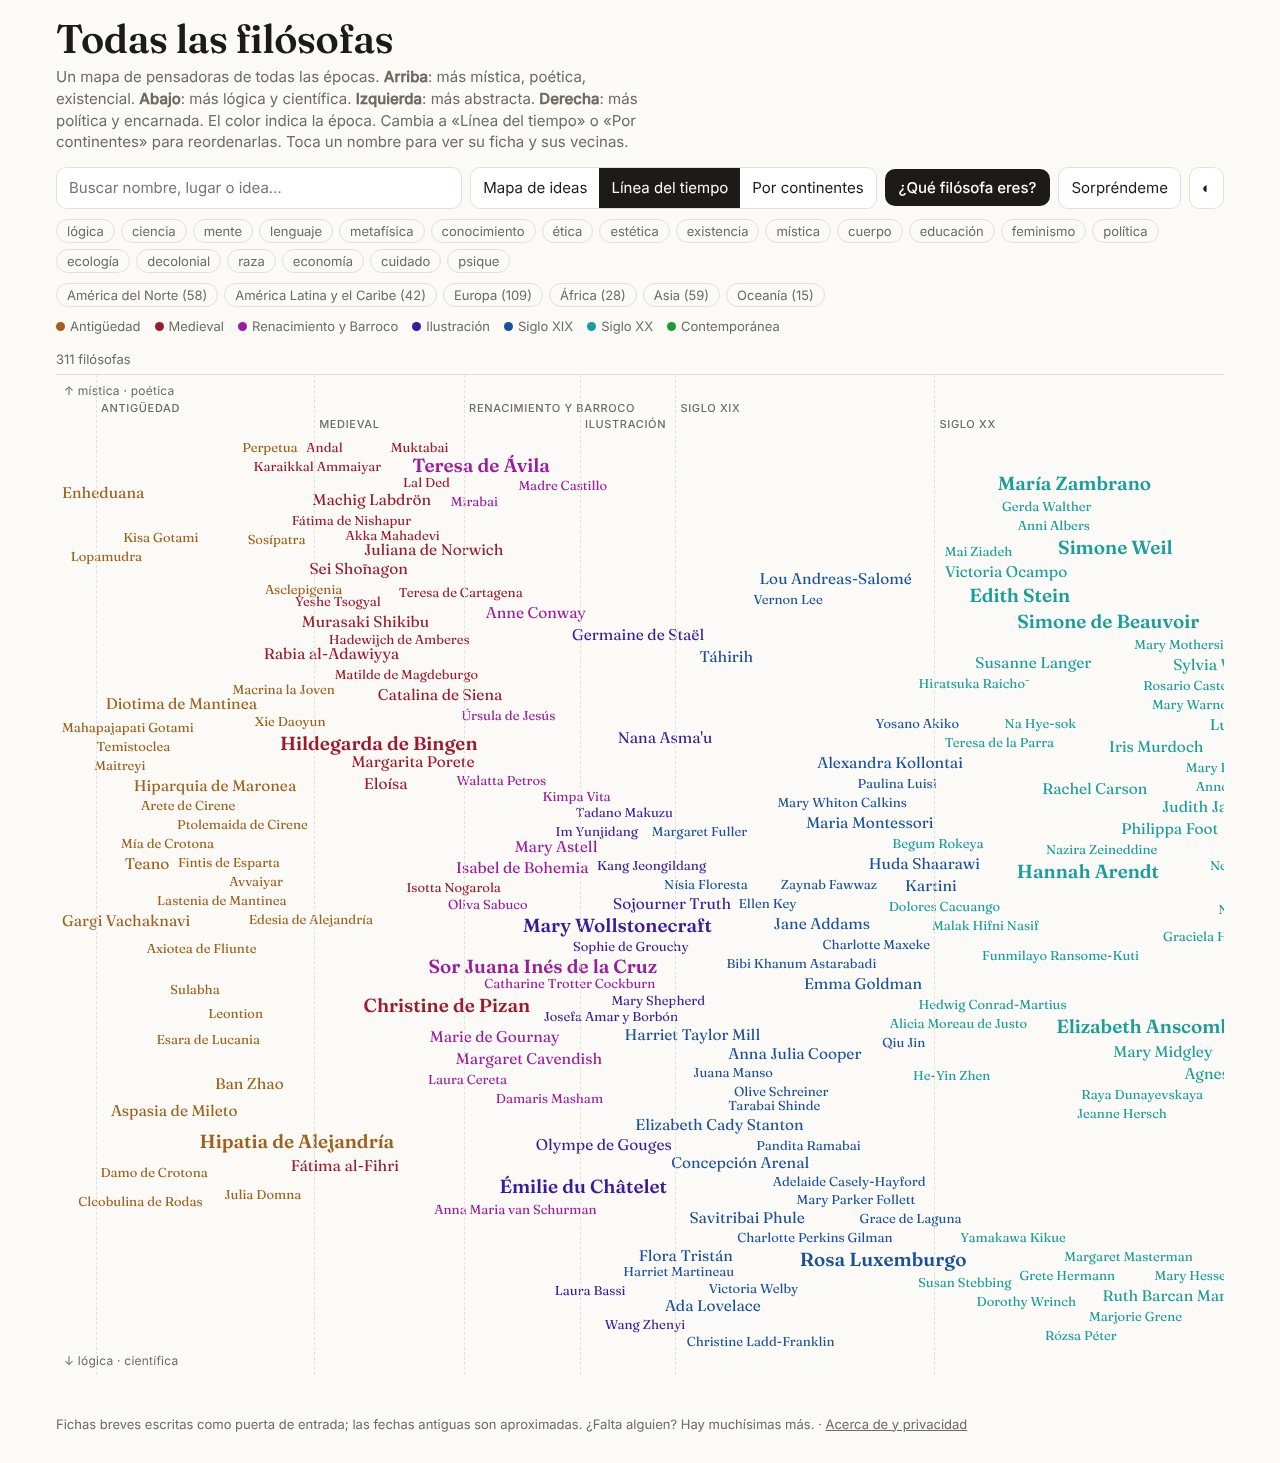
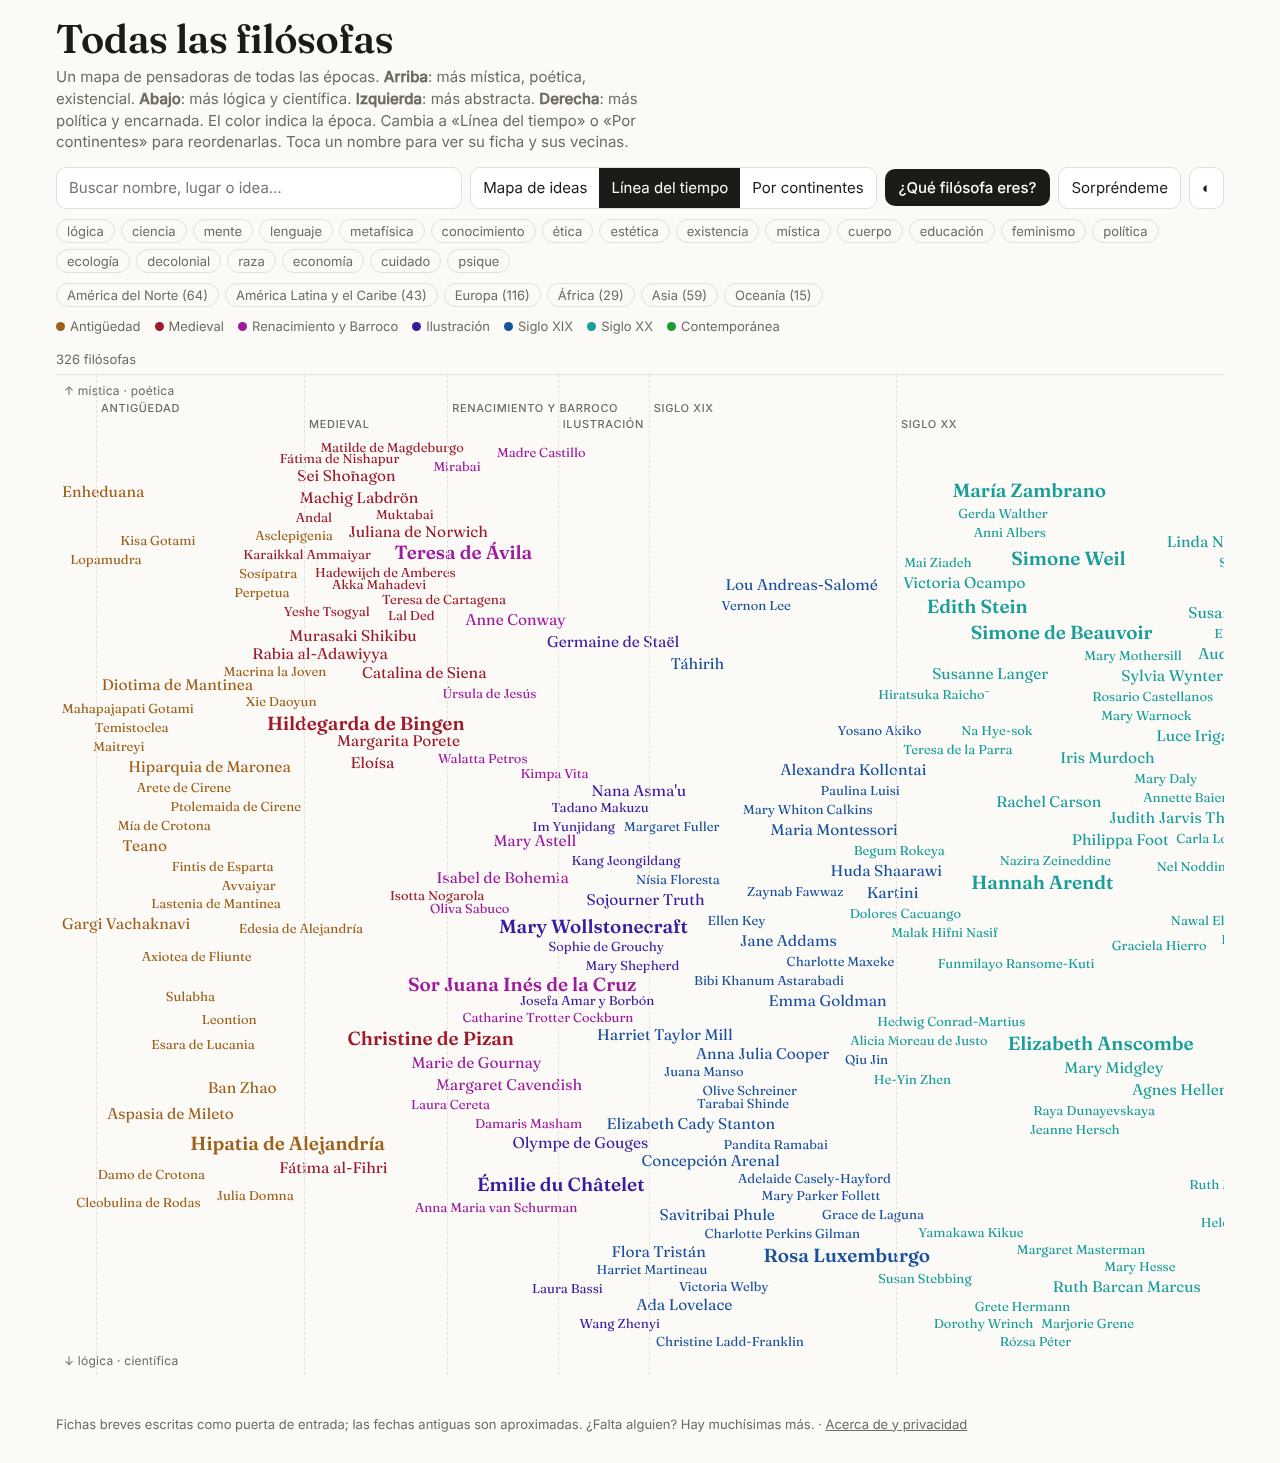
Filósofas: estética y teoría del arte feministas (326)
Añade a Marina Núñez, Bonnie Mann, Janet Wolff, Koyo Kouoh, Peggy Zeglin
Brand, Amelia Jones, Emily Brady, Katya Mandoki, Linda Nochlin, Lucy
Lippard, Rosalind Krauss, Laura Mulvey, Mieke Bal, Griselda Pollock y
Estrella de Diego. Para quienes no tienen fecha de nacimiento conocida,
la ficha muestra el año de su obra clave en lugar de inventarla.

Claude-Session: https://claude.ai/code/session_01KKfWKBF6TY6dsgWVrcAB93

diff --git a/filosofas/index.html b/filosofas/index.html
@@ -140,7 +140,7 @@ footer{color:var(--muted);font-size:13px;max-width:1200px;margin:0 auto;padding:
 <footer>Fichas breves escritas como puerta de entrada; las fechas antiguas son aproximadas. ¿Falta alguien? Hay muchísimas más. · <a href="acerca.html" style="color:inherit">Acerca de y privacidad</a></footer>
 
 <script>
-/* [nombre, nacimiento, muerte (null = vive, "?" = desconocida), aproximada, lugar, corriente, temas, idea, peso] */
+/* [nombre, nacimiento, muerte (null = vive, "?" = desconocida), aproximada (1) — o 2: no se sabe el nacimiento y el año es el de su obra clave —, lugar, corriente, temas, idea, peso] */
 const D=[
 ["Enheduana",-2285,-2250,1,"Ur, Mesopotamia","Poesía sacerdotal sumeria","mistica estetica","Suma sacerdotisa de Ur y primera autora conocida con nombre propio: sus himnos a Inanna piensan lo divino, el poder y el yo.",2],
 ["Gargi Vachaknavi",-700,"?",1,"Videha, India","Upanishads","metafisica conocimiento","Interroga a Yajñavalkya sobre aquello en lo que todo el universo está «tejido» en la Brihadaranyaka Upanishad.",2],
@@ -452,7 +452,22 @@ const D=[
 ["Ellen Dissanayake",1935,null,0,"Estados Unidos","Estética evolutiva","estetica cuerpo ciencia","«Homo aestheticus»: el arte como «hacer especial» lo cotidiano, una necesidad humana.",1],
 ["Elaine Scarry",1946,null,0,"Estados Unidos","Estética","estetica etica cuerpo","«Sobre la belleza y ser justos»: la belleza nos entrena para la justicia.",1],
 ["Carolyn Korsmeyer",1950,null,0,"Estados Unidos","Estética","estetica cuerpo","«El sentido del gusto»: la comida y el gusto como asuntos filosóficos.",1],
-["Sianne Ngai",1971,null,0,"Estados Unidos","Teoría estética","estetica economia","«Nuestras categorías estéticas»: lo mono, lo chiflado y lo interesante en el capitalismo tardío.",1]
+["Sianne Ngai",1971,null,0,"Estados Unidos","Teoría estética","estetica economia","«Nuestras categorías estéticas»: lo mono, lo chiflado y lo interesante en el capitalismo tardío.",1],
+["Peggy Zeglin Brand",1995,null,2,"Estados Unidos","Estética feminista","estetica feminismo","Con Carolyn Korsmeyer editó «Feminismo y tradición en estética» y después «La belleza importa»: el canon estético revisado desde las mujeres.",1],
+["Emily Brady",2003,null,2,"Reino Unido / EE. UU.","Estética ambiental","estetica ecologia etica","«Estética del entorno natural»: apreciar la naturaleza con imaginación y respeto, no como un cuadro.",1],
+["Bonnie Mann",2006,null,2,"Estados Unidos","Fenomenología feminista","estetica feminismo ecologia","«La liberación de las mujeres y lo sublime»: lo sublime repensado desde el feminismo y la tierra; después, «Masculinidad soberana».",1],
+["Katya Mandoki",2007,null,2,"México","Estética de lo cotidiano","estetica lenguaje politica","«Prosaica»: la estética de la vida diaria, de la cultura y las identidades sociales.",1],
+["Linda Nochlin",1931,2017,0,"Nueva York","Historia del arte feminista","estetica feminismo","«¿Por qué no ha habido grandes artistas mujeres?»: la pregunta estaba mal planteada; el problema son las instituciones.",2],
+["Lucy Lippard",1937,null,0,"Nueva York","Crítica de arte","estetica politica feminismo","La desmaterialización del objeto artístico y el arte feminista y comprometido.",1],
+["Rosalind Krauss",1941,null,0,"Estados Unidos","Teoría del arte","estetica lenguaje","La escultura en el campo expandido y la originalidad de la vanguardia.",1],
+["Laura Mulvey",1941,null,0,"Oxford / Londres","Teoría fílmica feminista","estetica psique feminismo","«Placer visual y cine narrativo»: la mirada masculina.",2],
+["Janet Wolff",1943,null,0,"Mánchester","Sociología del arte","estetica feminismo politica","«La producción social del arte» y la flâneuse invisible de la modernidad.",1],
+["Mieke Bal",1946,null,0,"Países Bajos","Teoría cultural","estetica lenguaje","Narratología y conceptos viajeros entre el arte y las humanidades.",1],
+["Griselda Pollock",1949,null,0,"Sudáfrica / Leeds","Historia del arte feminista","estetica feminismo psique","«Visión y diferencia»: feminismo, psicoanálisis y las historias del arte.",1],
+["Estrella de Diego",1958,null,0,"Madrid","Teoría del arte","estetica feminismo","Arte, género e identidad: «El andrógino sexuado» y «Travesías por la incertidumbre».",1],
+["Amelia Jones",1961,null,0,"Estados Unidos","Teoría de la performance","estetica cuerpo feminismo","«Body Art: la representación del sujeto»: el cuerpo del artista como lugar del significado.",1],
+["Marina Núñez",1966,null,0,"Palencia","Arte y pensamiento feminista","estetica cuerpo ciencia","Artista que piensa con imágenes: monstruas, cíborgs y cuerpos que desbordan la norma.",1],
+["Koyo Kouoh",1967,2025,0,"Duala, Camerún / Dakar","Comisariado","estetica decolonial","Comisaria que puso el arte africano en el centro: fundó RAW Material Company y dirigió el Zeitz MOCAA.",2]
 ];
 
 /* temas → dirección en el mapa: [x: abstracta(-) / política(+), y: lógica(-) / mística(+)] */
@@ -473,25 +488,27 @@ const eraOf=b=>ERAS.find(e=>b<e.to);
 const CONTS=["América del Norte","América Latina y el Caribe","Europa","África","Asia","Oceanía"];
 const CONT_RX=[
  [1,/Lima|Colombia|Uruguay|Ecuador|Bolivia|Cuba|Caracas|Oaxaca|México|Nueva España|Buenos Aires|Argentina|La Paz|Chile|Guatemala|Brasil|São Paulo|Santos|República Dominicana|Jamaica|Panamá/],
- [3,/Cartago|Etiopía|Congo|Sokoto|Sudáfrica|Sierra Leona|Kenia|Senegal|Uganda|Alejandría|Cirene|Fez|Egipto|Nigeria|Orán/],
+ [3,/Camerún|Cartago|Etiopía|Congo|Sokoto|Sudáfrica|Sierra Leona|Kenia|Senegal|Uganda|Alejandría|Cirene|Fez|Egipto|Nigeria|Orán/],
  [4,/Kioto|Tíbet|Corea|Japón|Irán|Persia|Líbano|Nazaret|Java|Siria|India|Mesopotamia|China|Tokio|Cachemira|Bengala|Basora|Pérgamo|Capadocia|Mileto|Pakistán|Baréin|Calcuta|Bombay|Dehradun|Karnataka|Rajastán|Maharashtra/],
  [5,/Aotearoa|Hawái|Fiyi|Australia|Nueva Zelanda|Sídney/],
  [0,/Estados Unidos|EE\. UU\.|Nueva York|Connecticut|Chicago|Canadá|Minnesota|Texas|Pensilvania|Ottawa|Ohio|Nueva Jersey|Milwaukee|Massachusetts|Kentucky|Filadelfia|Denver|Cleveland|Carolina|Boston|Baltimore|California|Alabama/]];
-const CONT_FIX={"Dorothy Wrinch":2,"Francesca Gargallo":1,"Nelly Richard":1};
+const CONT_FIX={"Dorothy Wrinch":2,"Francesca Gargallo":1,"Nelly Richard":1,"Griselda Pollock":2};
 function contOf(n,pl){ if(n in CONT_FIX)return CONT_FIX[n]; const f=pl.split(" / ")[0];
   for(const [c,rx] of CONT_RX) if(rx.test(f)) return c; return 2; }
 
 function hash(s){let h=2166136261;for(const c of s){h^=c.charCodeAt(0);h=Math.imul(h,16777619)}return (h>>>0)/4294967295}
 const yr=(y,a)=>(a?"c. ":"")+(y<0?(-y)+" a.C.":y);
+const datesOf=p=>p.ob?('obra clave: '+p.ob):p.d===null?('n. '+yr(p.b,p.a)):p.d==="?"?(yr(p.b,p.a)+(p.b<1000?' (activa)':'')):(yr(p.b,p.a)+' – '+yr(p.d,p.a));
 
 const P=D.map((r,i)=>{
-  const [n,b,d,a,pl,tr,tg,s,w]=r, tags=tg.split(" ");
+  let [n,b,d,a,pl,tr,tg,s,w]=r, tags=tg.split(" "), ob=null;
+  if(a===2){ob=b;b=b-45;}  /* se coloca como si hubiera nacido ~45 años antes de su obra clave */
   let x=0,y=0,wt=0;
   tags.forEach((t,k)=>{const f=k===0?2:1;x+=TAGS[t][1]*f;y+=TAGS[t][2]*f;wt+=f});
   x/=wt;y/=wt;
   x+= (hash(n)-.5)*.35; y+=(hash(n+"y")-.5)*.35;
   const e=eraOf(b);
-  return {i,n,b,d,a,pl,tr,tags,s,w,ix:x,iy:y,era:e,h:e.h,c:contOf(n,pl)};
+  return {i,n,b,d,a,ob,pl,tr,tags,s,w,ix:x,iy:y,era:e,h:e.h,c:contOf(n,pl)};
 });
 /* orden cronológico para la línea del tiempo */
 [...P].sort((p,q)=>p.b-q.b||p.n.localeCompare(q.n)).forEach((p,k)=>p.rank=k);
@@ -620,7 +637,7 @@ function select(p){
   if(!p){card.classList.remove('open');if(!quizOpen)setHash('');return}
   p.el.classList.add('sel');
   const nb=neighbours(p); nb.forEach(q=>q.el.classList.add('near'));
-  const dates= p.d===null?('n. '+yr(p.b,p.a)) : p.d==="?"?(yr(p.b,p.a)+(p.b<1000?' (activa)':'')) : (yr(p.b,p.a)+' – '+yr(p.d,p.a));
+  const dates=datesOf(p);
   const wq=encodeURIComponent(p.n);
   card.style.setProperty('--h',p.h);
   card.innerHTML=`<button class="x" aria-label="Cerrar">×</button>
@@ -811,7 +828,7 @@ function result(){
   const top=Object.entries(qsc).sort((a,b)=>b[1]-a[1]).map(([t])=>t);
   const shared=top.filter(t=>p.tags.includes(t)).slice(0,3).map(t=>TAGS[t][0]);
   qbox.style.setProperty('--h',p.h);
-  const dates=p.d===null?('n. '+yr(p.b,p.a)):p.d==="?"?yr(p.b,p.a):(yr(p.b,p.a)+' – '+yr(p.d,p.a));
+  const dates=datesOf(p);
   qbox.innerHTML=`<button class="x" aria-label="Cerrar">×</button>
    <div class="res"><div class="pre">Tu filósofa es…</div><h2>${p.n}</h2>
    <div class="why">${dates} · ${p.pl} · ${p.tr}</div>
@@ -846,7 +863,7 @@ async function shareImage(p,text){
   x.fillStyle=col;let fs=118;x.font=`600 ${fs}px Fraunces, Georgia, serif`;
   let lines=wrap(x,p.n,W-160);while(lines.length>3&&fs>70){fs-=8;x.font=`600 ${fs}px Fraunces, Georgia, serif`;lines=wrap(x,p.n,W-160)}
   let y=400;lines.forEach(l=>{x.fillText(l,80,y);y+=fs*1.05});
-  const dates=p.d===null?('n. '+yr(p.b,p.a)):p.d==="?"?yr(p.b,p.a):(yr(p.b,p.a)+' – '+yr(p.d,p.a));
+  const dates=datesOf(p);
   x.fillStyle='#9a948a';x.font='400 34px Inter, sans-serif';y+=20;x.fillText(dates+' · '+p.pl,80,y);
   x.fillStyle='#ece8e1';x.font='400 46px Fraunces, Georgia, serif';y+=90;
   wrap(x,p.s,W-160).slice(0,6).forEach(l=>{x.fillText(l,80,y);y+=62});
